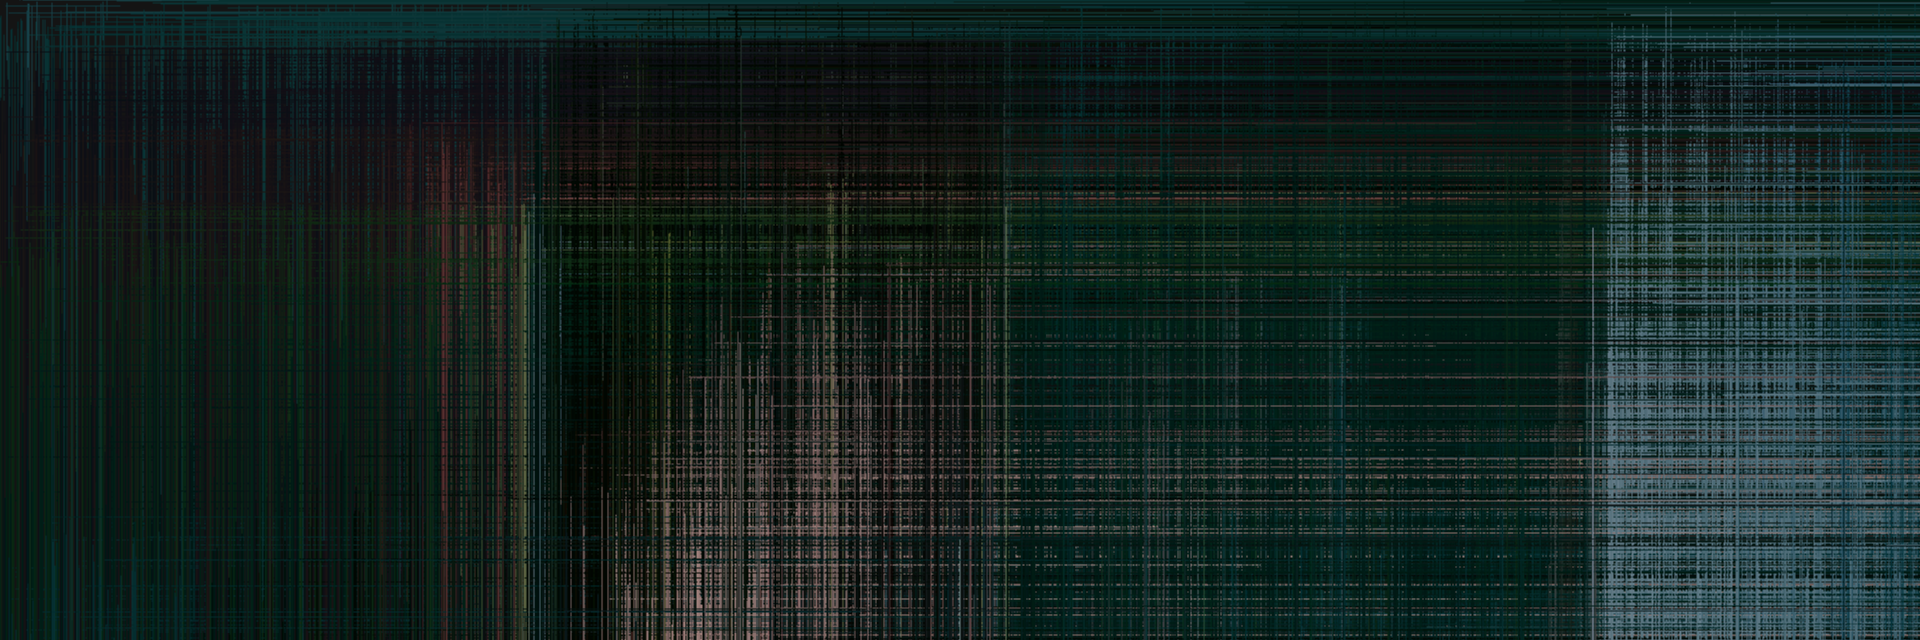
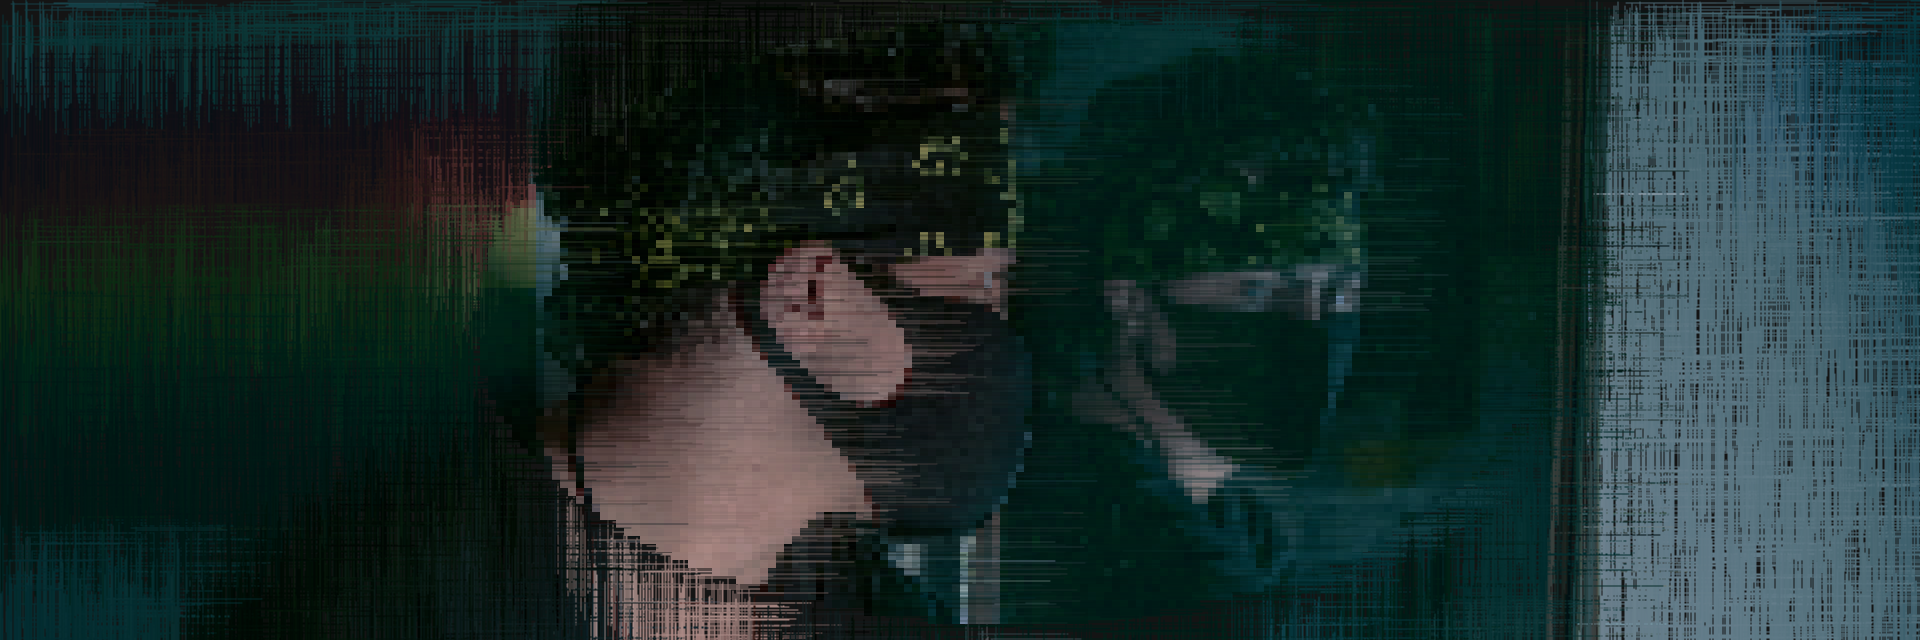
Output

diff --git a/sketch.js b/sketch.js
@@ -3,9 +3,9 @@ let maskImg=null;
 let renderCounter=0;
 
 // change these three lines as appropiate
-let sourceFile = "input_3.png";
-let maskFile   = "mask_3.png";
-let outputFile = "output_3.png";
+let sourceFile = "input_2.png";
+let maskFile   = "mask_2.png";
+let outputFile = "output_2.png";
 
 function preload() {
   sourceImg = loadImage(sourceFile);
@@ -23,11 +23,11 @@ function setup () {
   maskImg.loadPixels();
 }
 
-const tileHeight = 10;
-const tileWidth = 10;
+const tileHeight = 8;
+const tileWidth = 8;
 
-const x_step = 30;
-const y_step = 30;
+const x_step = 8;
+const y_step = 8;
 
 function draw () {
 
@@ -58,7 +58,7 @@ function draw () {
    for (var y2 = 0; y2 < sourceImg.height; y2 = y2 + y_step) {
      let pix = sourceImg.get(x2, y2);
      let mask = maskImg.get(x2, y2);
-      fill(pix[0],pix[1],pix[2]);
+      fill(pix[0],pix[1],pix[2], 100);
       noStroke();
        if (mask[0] > 128) {
      rect(x2, y2, tileWidth, tileHeight);

diff --git a/README.md b/README.md
@@ -1,7 +1,9 @@
 ## Creative Coding 2: Custom Pixel
 
-6/8/2020, 16:05
+6/8/2020, 16:15
 
-Fuzz.
+Frozen
 
-Despite this being unclear, I am quite amused by this background abstraction and I would like to keep this and continue working with the layers that are in tutorial videos. Not sure where this will go, but i'm enjoying the ride.
+This is exactly what I want to submit for this specific image. The fuzzy glitch captures the reminiscing gaze through the mirror, and the simple colour-scheme is pleasantly cinematic.
+
+I have yet to see what this would look like on my other images, but I am content with where this one is, and might focus more on masking possibilities with the others. Time will tell.
